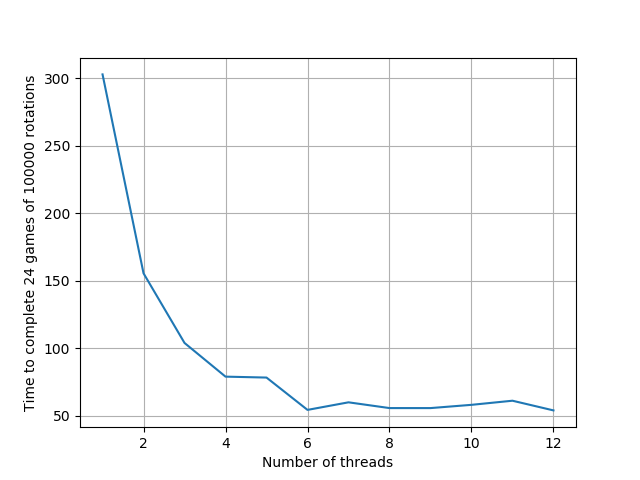
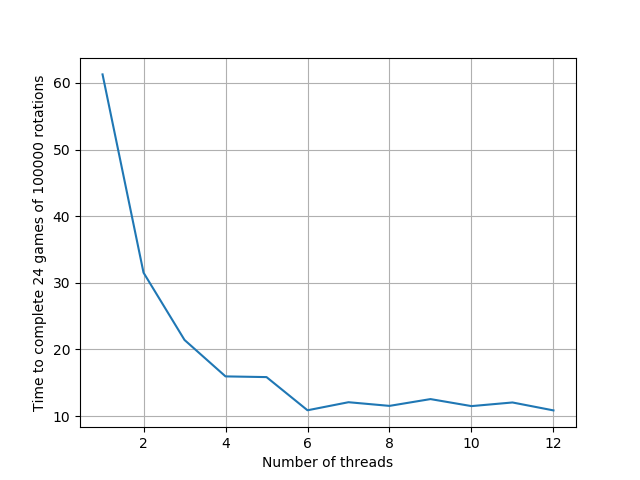
Numpy-optimering af rubiksterning

diff --git a/src/rubiks.py b/src/rubiks.py
@@ -1,38 +1,47 @@
-
-import torch
+import numpy as np
 from copy import deepcopy
-
+from operator import itemgetter
+from struct import pack, unpack
 
 class RubiksCube:
 
-	def __init__(self, device = torch.device("cpu")):
+	assembled = np.empty((6, 8), dtype = np.uint8)
+	for i in range(6):
+		assembled[i] = i
+
+	def __init__(self):
 
 		"""
 		Shape: 6 x 8 uint8, see method three here: https://stackoverflow.com/a/55505784
 		"""
 
-		# self.device = device
-		self.state = torch.zeros(6, 8, dtype = torch.uint8, device = device)
-		for i in range(6):
-			self.state[i] = i
+		self.state = self.assembled.copy()
 		
 		# The i'th index contain the neighbors of the i'th side in positive direction
-		# Do not make this a tensor, as it will slow execution significantly
-		self.neighbors = (
-			(1, 5, 4, 2),  # Front
-			(2, 3, 5, 0),  # Left
-			(0, 4, 3, 1),  # Top
-			(5, 1, 2, 4),  # Back
-			(3, 2, 0, 5),  # Right
-			(4, 0, 1, 3),  # Bottom
-		)
-		# Du not make this a tuple, as it will slow execution significantly
-		self.revolution = torch.tensor((
-			(6, 7, 0),
-			(2, 3, 4),
-			(4, 5, 6),
-			(0, 1, 2),
-		), device = device)
+		self.neighbors = np.array([
+			[1, 5, 4, 2],  # Front
+			[2, 3, 5, 0],  # Left
+			[0, 4, 3, 1],  # Top
+			[5, 1, 2, 4],  # Back
+			[3, 2, 0, 5],  # Right
+			[4, 0, 1, 3],  # Bottom
+		])
+		self.adjecents = np.array([
+			[6, 7, 0],
+			[2, 3, 4],
+			[4, 5, 6],
+			[0, 1, 2],
+		])
+	
+	@staticmethod
+	def _shift_left(a: np.ndarray, bits: int):
+
+		return np.roll(a, -bits)
+	
+	@staticmethod
+	def _shift_right(a: np.ndarray, bits: int):
+
+		return np.roll(a, bits)
 	
 	def rotate(self, face: int, pos_rev: bool):
 
@@ -40,48 +49,30 @@ class RubiksCube:
 		Performs one move on the cube, specified by the side (0-5) and whether the revolution is positive (boolean)
 		"""
 
-		# Leave this check out, as it increases runtime by ~15 %
 		# if not 0 <= face <= 5:
 		# 	raise IndexError("Face should be 0-5, not %i" % face)
 
-		# Rolls the face
-		shift = 1 if pos_rev else -1
-		self.state[face] = self.state[face].roll(2 * shift)
+		self.state[face] = self._shift_right(self.state[face], 2)\
+			if pos_rev else self._shift_left(self.state[face], 2)
 		
-		# Rolls the adjacent rows
-		rowvec = torch.cat([
-			self.state[self.neighbors[face][i], self.revolution[i]] for i in range(4)
-		]).roll(3 * shift)
-		for i in range(4):
-			self.state[self.neighbors[face][i], self.revolution[i]] = rowvec[i*3:(i+1)*3]
+		ini_state = self.state[self.neighbors[face]].copy()
+		if pos_rev:
+			for i in range(4):
+				self.state[self.neighbors[face][i], self.adjecents[i]]\
+					= ini_state[i-1, self.adjecents[i-1]]
+		else:
+			for i in range(4):
+				self.state[self.neighbors[face][i-1], self.adjecents[i-1]]\
+					= ini_state[i, self.adjecents[i]]
 		
 	def __str__(self):
-
-		return str(self.state)
-	
-	def to(self, device: torch.device, in_place = True):
-
-		"""
-		Mimicks tensors' to method
-		Use only for device changing
-		If not in_place, a new RubiksCube instance is returned
-		"""
-
-		self.device = device
-		attrs = ("state", )
-		new_rc = deepcopy(self)
-		for attr in attrs:
-			setattr(new_rc, attr, getattr(self, attr).to(device))
 		
-		if in_place:
-			self = new_rc
-		else:
-			return new_rc
-	
+		return str(self.state)
+
 	def scramble(self, n: int):
 
-		faces = torch.randint(6, (n, ))
-		dirs = torch.randint(2, (n, ))
+		faces = np.random.randint(6, size = (n, ))
+		dirs = np.random.randint(2, size = (n, )).astype(bool)
 
 		for face, d in zip(faces, dirs):
 			self.rotate(face, d)
@@ -89,47 +80,40 @@ class RubiksCube:
 		return faces, dirs
 	
 	def is_complete(self):
-		 
-		return bool(list(filter(lambda x: (x[0] == x).all(), self.state)))
+		
+		return (self.state == self.assembled).all()
 
 
 if __name__ == "__main__":
 	from utils.ticktock import TickTock
-	n = int(1e4)
+	n = int(1e5)
 	tt = TickTock()
+	# rube = RubiksCube()
+	# tt.tick()
+	# rube.scramble(n)
+	# tt.tock()
 
-	tt.tick()
-	cpu_rube = RubiksCube()
-	cpu_rube.scramble(n)
-	tt.tock()
+	def test_scramble(_):
+		rube = RubiksCube()
+		rube.scramble(n)
 
-	# if torch.cuda.is_available():
-	# 	device = torch.device("cuda")
-	# 	tt.tick()
-	# 	gpu_rube = RubiksCube(device)
-	# 	gpu_rube.scramble(n)
-	# 	tt.tock()
-
-	# def test_scramble(_, device = torch.device("cpu")):
-	# 	rube = RubiksCube(device)
-	# 	rube.scramble(n)
-
-	# import multiprocessing as mp
-	# import matplotlib.pyplot as plt
-	# nps = range(1, 7)
-	# times = torch.empty(nps.stop - nps.start)
-	# moves = torch.empty(nps.stop - nps.start)
-	# games = 12
-	# for n_processes in nps:
-	# 	with mp.Pool(n_processes) as p:
-	# 		tt.tick()
-	# 		p.map(test_scramble, torch.empty(games))
-	# 		times[n_processes-nps.start] = tt.tock(False)
-	# 		moves[n_processes-nps.start] = n * n_processes
-	# 		print(f"{games:02} games\n{n} moves per game\n{n_processes} threads\n{times[n_processes-nps.start]:4} seconds\n")
-	# plt.plot(nps, times)
-	# plt.xlabel("Number of threads")
-	# plt.ylabel("Time to complete %i games of %i rotations" % (games, n))
-	# plt.grid(True)
-	# plt.show()
+	import multiprocessing as mp
+	import matplotlib.pyplot as plt
+	nps = range(1, 13)
+	times = np.empty(nps.stop - nps.start)
+	moves = np.empty(nps.stop - nps.start)
+	games = 24
+	for n_processes in nps:
+		with mp.Pool(n_processes) as p:
+			tt.tick()
+			p.map(test_scramble, np.empty(games))
+			times[n_processes-nps.start] = tt.tock(False)
+			moves[n_processes-nps.start] = n * n_processes
+			print(f"{games:02} games\n{n} moves per game\n{n_processes} threads\n{times[n_processes-nps.start]:4} seconds\n")
+	plt.plot(nps, times)
+	plt.xlabel("Number of threads")
+	plt.ylabel("Time to complete %i games of %i rotations" % (games, n))
+	plt.grid(True)
+	plt.show()
+	
 
